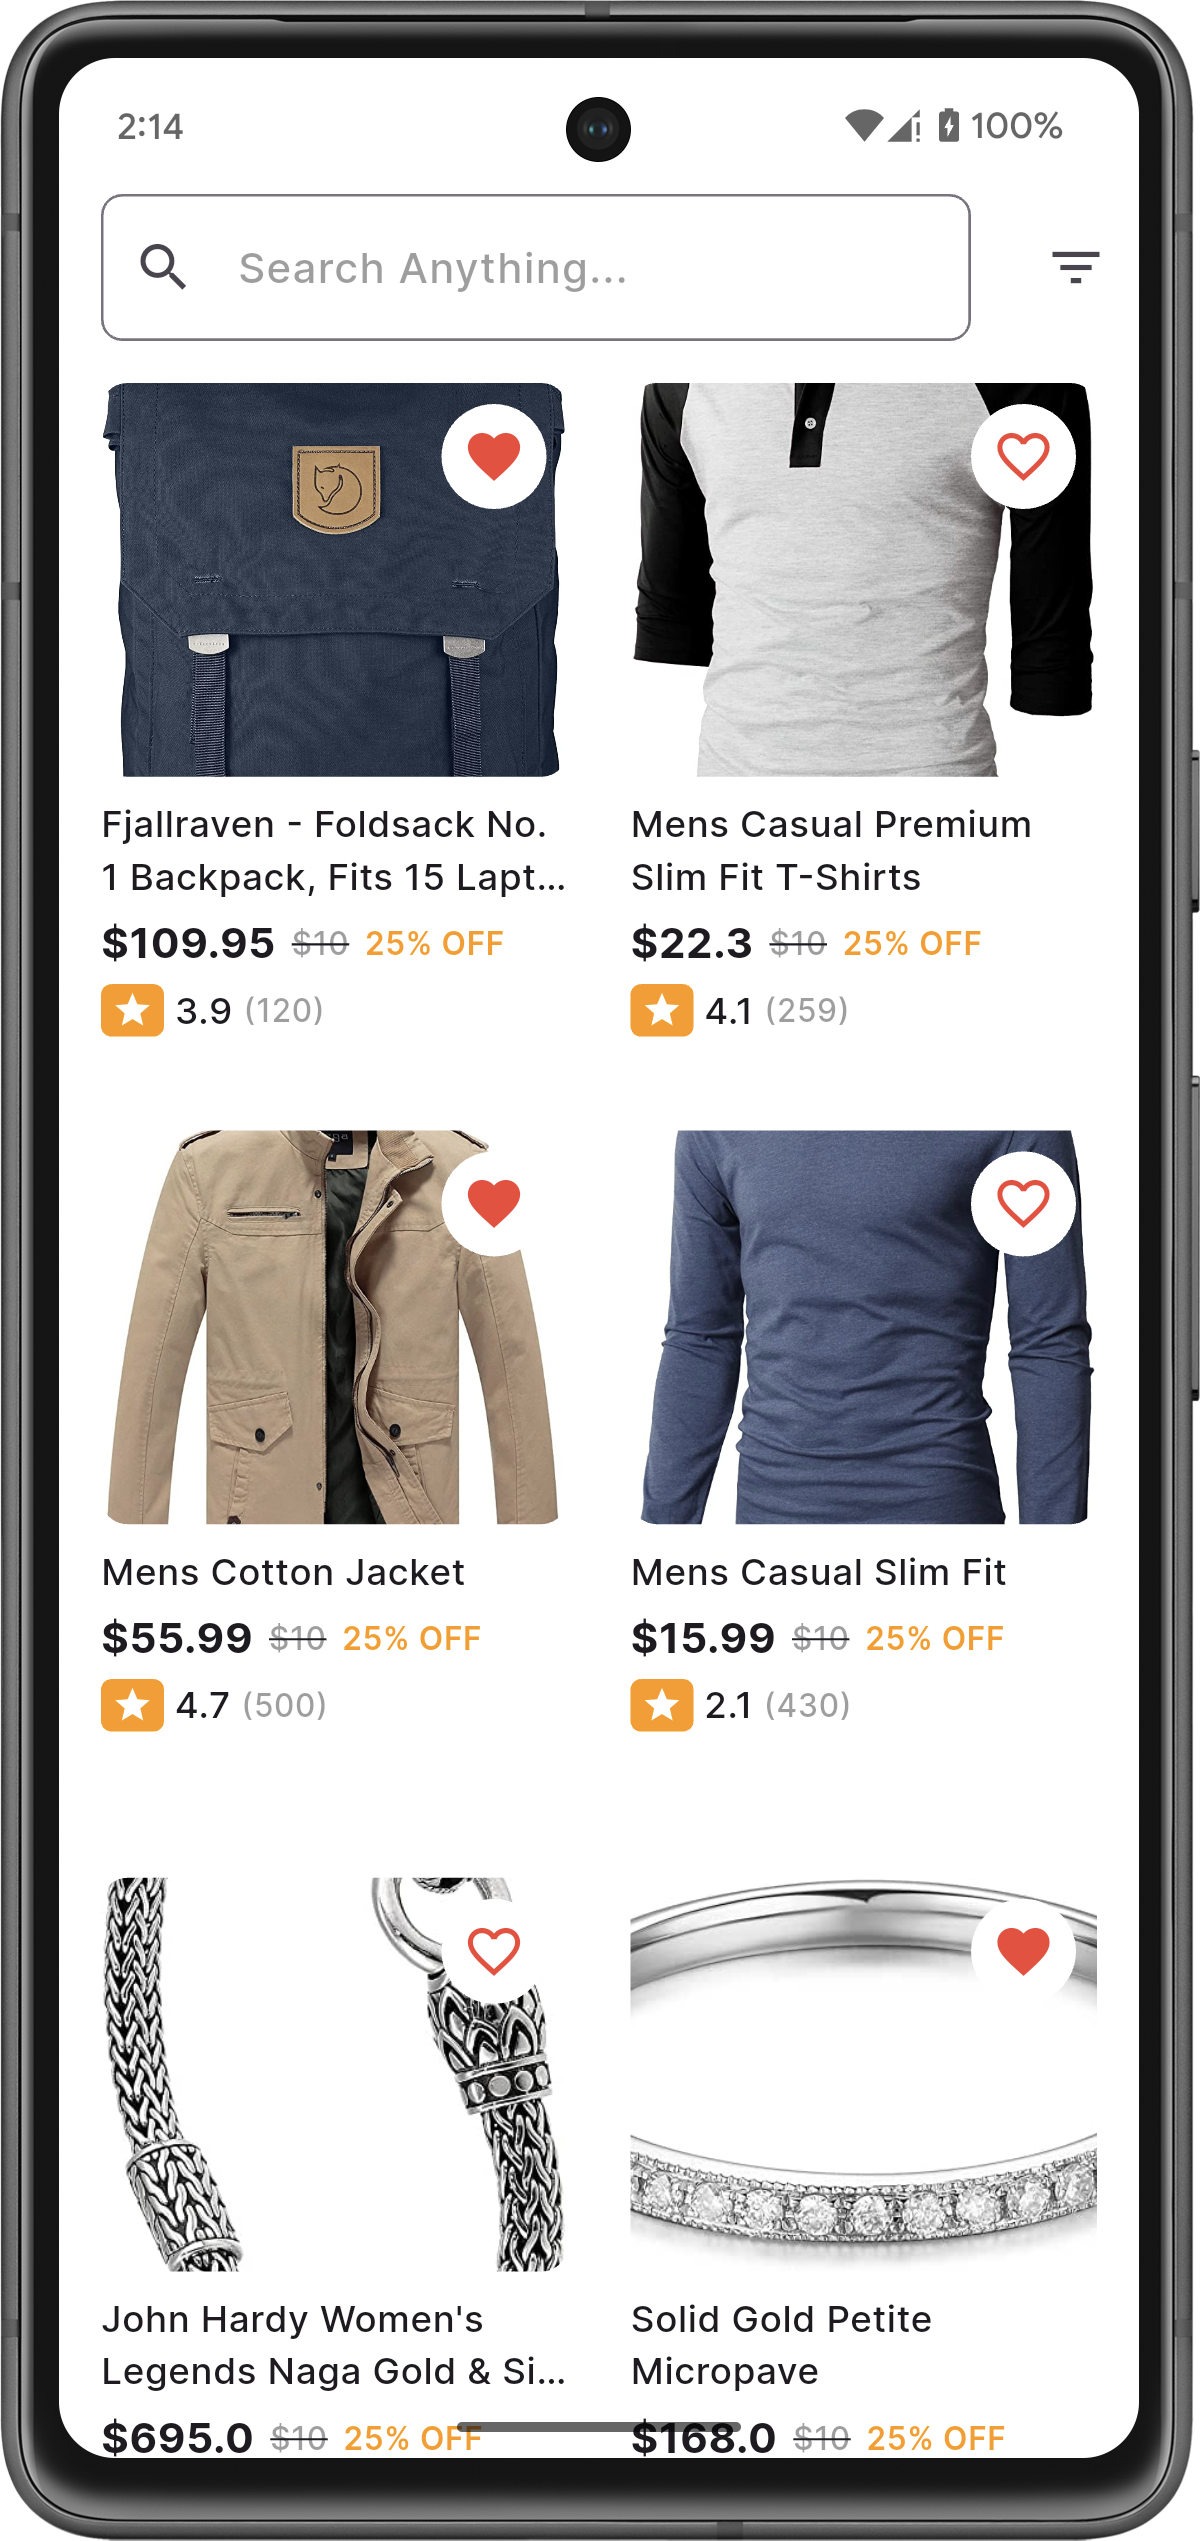
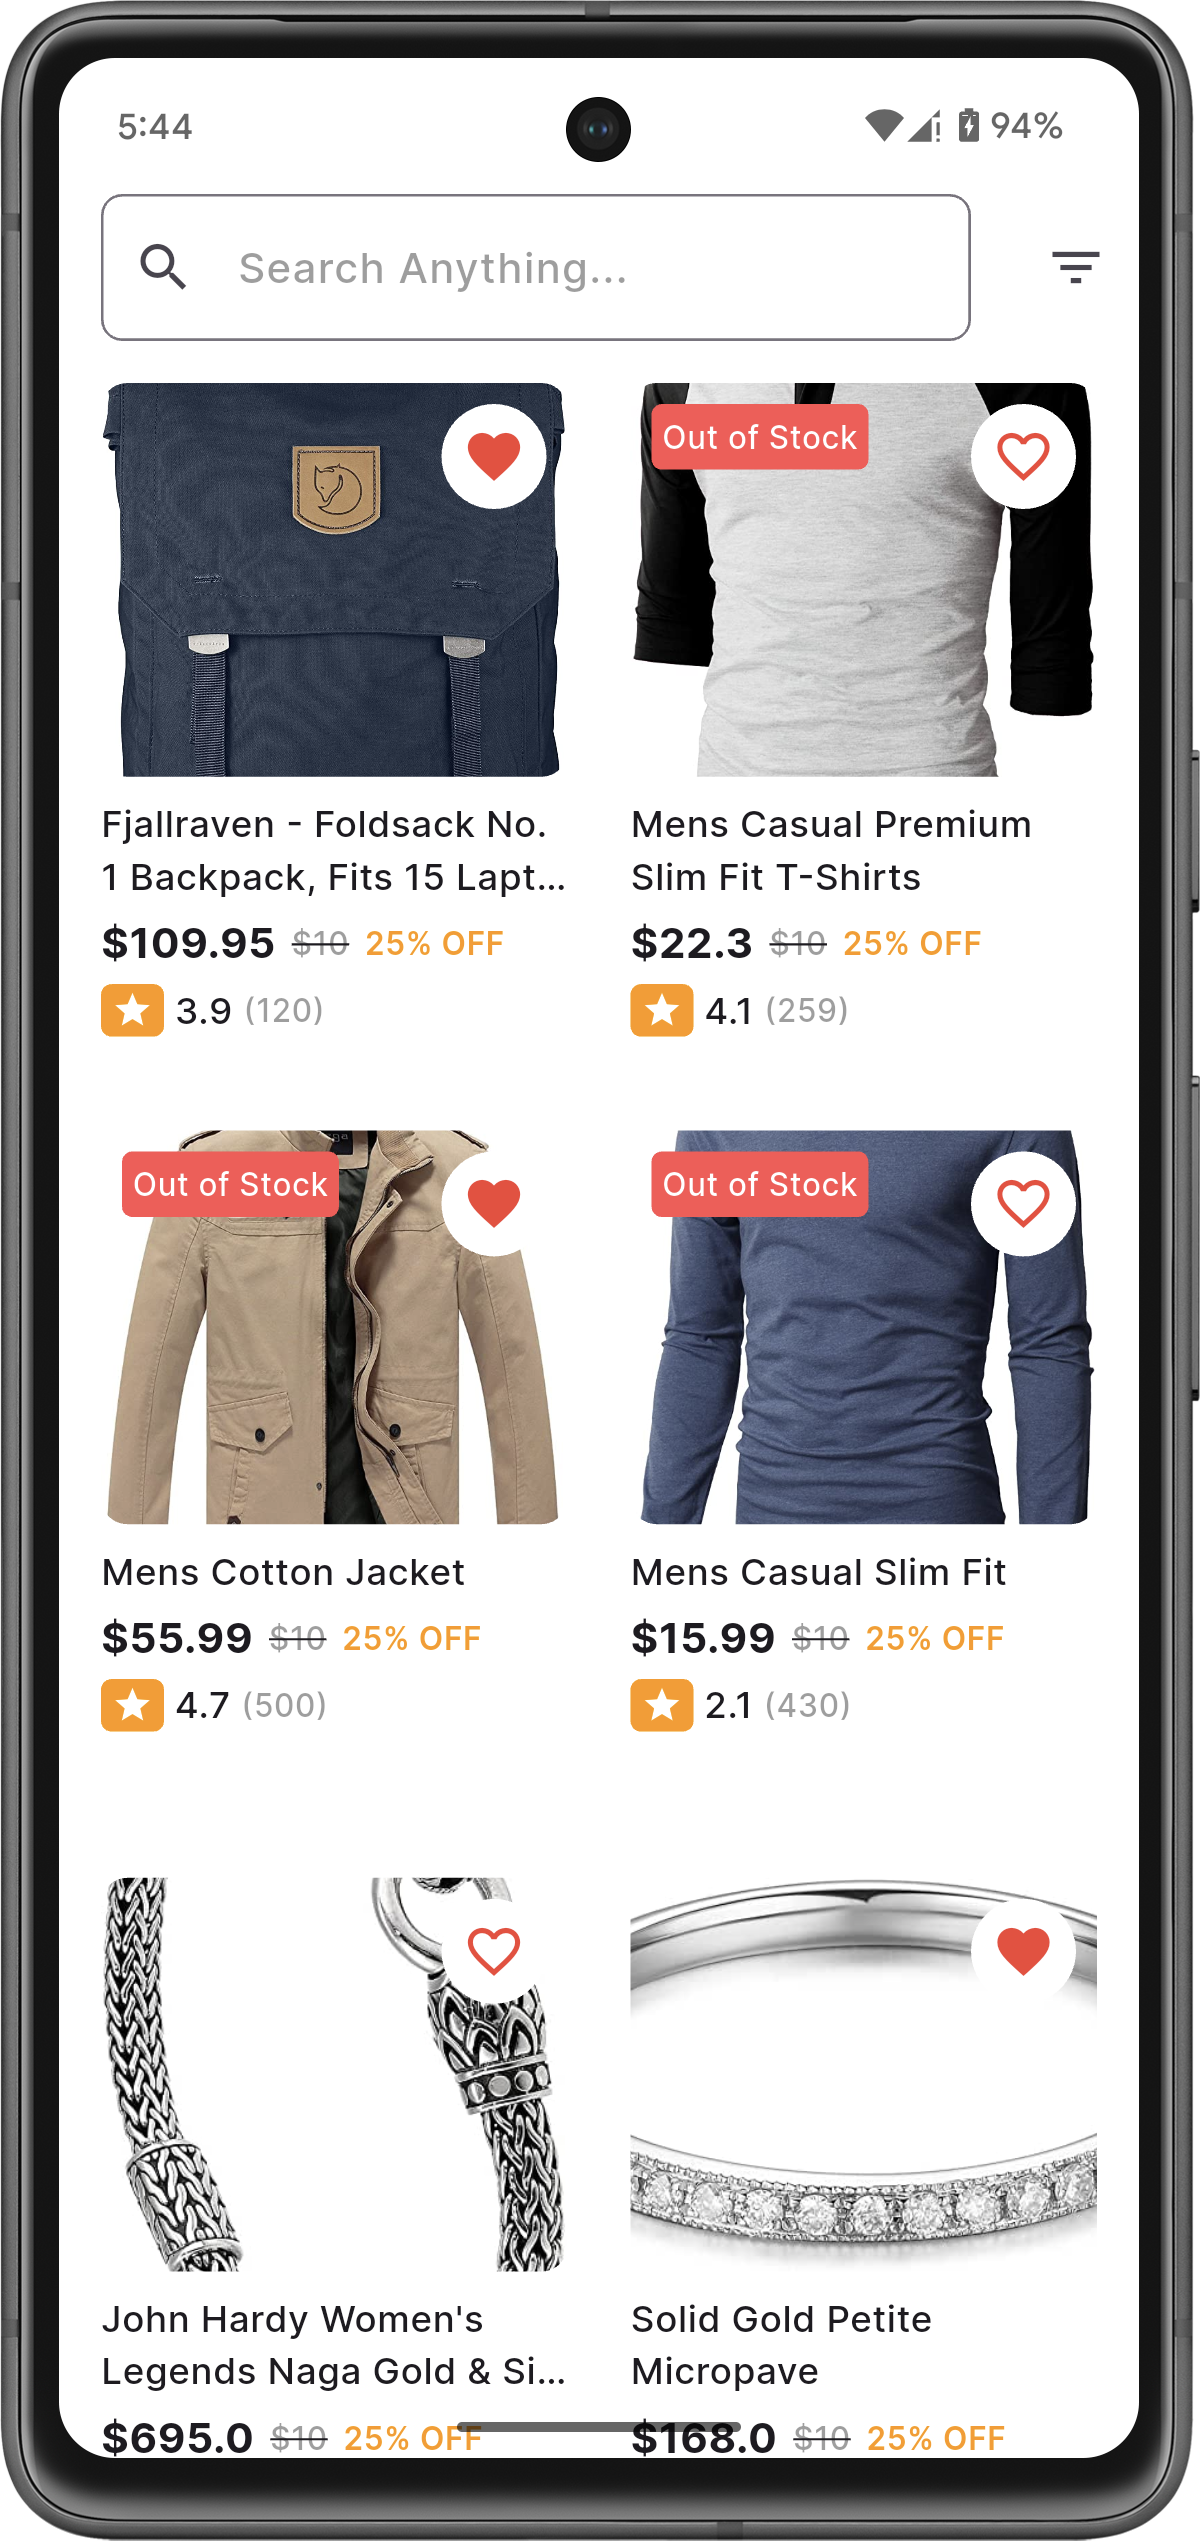
product card UI update and add simulate a random out of stock status

diff --git a/lib/features/presentation/widgets/product_card.dart b/lib/features/presentation/widgets/product_card.dart
@@ -1,7 +1,10 @@
+import 'dart:math';
+
 import 'package:cached_network_image/cached_network_image.dart';
 import 'package:flutter/material.dart';
 import 'package:flutter_bloc/flutter_bloc.dart';
 import 'package:google_fonts/google_fonts.dart';
+import '../../../core/constants/strings.dart';
 import '../../domain/entities/product.dart';
 import '../bloc/product_bloc.dart';
 
@@ -12,6 +15,8 @@ class ProductCard extends StatelessWidget {
 
   @override
   Widget build(BuildContext context) {
+
+
     return Padding(
       padding: const EdgeInsets.all(8),
       child: Column(
@@ -19,15 +24,16 @@ class ProductCard extends StatelessWidget {
         children: [
           Stack(
             children: [
+
               Container(
                 decoration: BoxDecoration(
                   color: Colors.grey[200],
                   borderRadius: BorderRadius.all(Radius.circular(10.0)),
                 ),
                 child: ClipRRect(
-                  borderRadius: BorderRadius.all(Radius.circular(10.0)),  // Ensure the image also has rounded corners
+                  borderRadius: BorderRadius.all(Radius.circular(10.0)),
                   child: CachedNetworkImage(
-                    imageUrl: product.image,  // Make sure to pass the URL to imageUrl
+                    imageUrl: product.image,
                     height: 150,
                     width: double.infinity,
                     fit: BoxFit.cover,
@@ -41,11 +47,10 @@ class ProductCard extends StatelessWidget {
                 right: 8,
                 child: InkWell(
                   onTap: () {
-                    // Ensure the product.id and product.isFavorite are accessible and valid
                     context.read<ProductBloc>().add(
                       ToggleFavorite(
-                        productId: product.id, // Ensure it's an int
-                        isFavorite: !product.isFavorite, // Toggle the favorite status
+                        productId: product.id,
+                        isFavorite: !product.isFavorite,
                       ),
                     );
                   },
@@ -57,7 +62,25 @@ class ProductCard extends StatelessWidget {
                     ),
                   ),
                 ),
-              )
+              ),
+
+              if (product.isOutOfStock)
+              Positioned(
+                top: 8, left: 8, child: Container(
+                padding: const EdgeInsets.all(4),
+                decoration: BoxDecoration(
+                  color: Colors.redAccent,
+                  borderRadius: BorderRadius.circular(4),
+                ),
+                child: Text(
+                  AppString.outOfStock,
+                  style: GoogleFonts.inter(
+                    fontSize: 12,
+                    fontWeight: FontWeight.w500,
+                    color: Colors.white,
+                  ),
+                ),
+              ))
 
             ],
           ),
@@ -123,7 +146,7 @@ class ProductCard extends StatelessWidget {
 
               const SizedBox(width: 4),
               Text(
-                product.rating!.rate.toStringAsFixed(1),  // Ensure rating is a double
+                product.rating!.rate.toStringAsFixed(1),
                 style: GoogleFonts.inter(
                   fontSize: 14,
                   fontWeight: FontWeight.w500,
@@ -131,7 +154,7 @@ class ProductCard extends StatelessWidget {
               ),
               const SizedBox(width: 4),
               Text(
-                '(${product.ratingCount})',  // Ensure ratingCount is an int
+                '(${product.ratingCount})',
                 style: GoogleFonts.inter(
                   fontSize: 12,
                   fontWeight: FontWeight.w500,

diff --git a/lib/features/domain/entities/product.dart b/lib/features/domain/entities/product.dart
@@ -1,3 +1,4 @@
+import 'dart:math';
 import '../../products/data/models/product_model.dart';
 
 class Product {
@@ -10,6 +11,7 @@ class Product {
   final Rating? rating;
   final int ratingCount;
   final bool isFavorite;
+  final bool isOutOfStock;
 
   Product({
     required this.id,
@@ -21,11 +23,14 @@ class Product {
     this.rating,
     required this.ratingCount,
     this.isFavorite = false,
-  });
+    bool? isOutOfStock,
+  }) : isOutOfStock = isOutOfStock ?? Random().nextBool(); // Out of stock badge using random boolean status
+
 
   Product copyWith({
     int? id,
     bool? isFavorite,
+    bool? isOutOfStock,
   }) {
     return Product(
       id: id ?? this.id,
@@ -37,6 +42,7 @@ class Product {
       rating: rating,
       ratingCount: ratingCount,
       isFavorite: isFavorite ?? this.isFavorite,
+      isOutOfStock: isOutOfStock ?? this.isOutOfStock,
     );
   }
 }

diff --git a/lib/core/constants/strings.dart b/lib/core/constants/strings.dart
@@ -7,4 +7,5 @@ class AppString{
   static const String offlineMessage = "You are offline. Showing cached data.";
   static const String somethingWentWrong = "Something went wrong. Please try again.";
   static const String noInternetNoCashData = "No internet connection and no cached data available.";
+  static const String outOfStock = "Out of Stock";
 }
